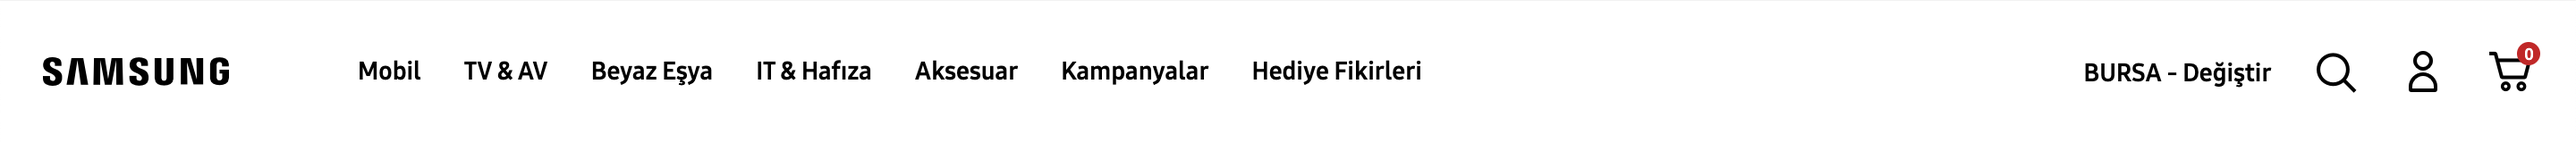
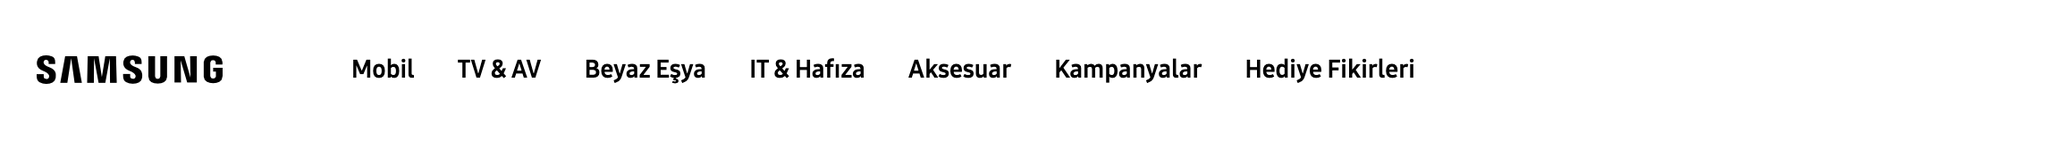
[feat] product basket add completed

Changed region(s): [[0.0, 0.3797, 0.6851, 0.6076], [0.8097, 0.3038, 0.9965, 0.6582]]

diff --git a/src/layout/header.jsx b/src/layout/header.jsx
@@ -1,16 +1,62 @@
-import React, { PureComponent } from 'react'
-import '../assets/scss/layout/header.scss'
-import headerImage from '../assets/images/header.png'
+import React, { PureComponent } from "react";
+import { connect } from "react-redux";
 
-class header extends PureComponent {
+import "../assets/scss/layout/header.scss";
+import headerImage from "../assets/images/header.png";
+import basketImg from "../assets/images/shopping-cart.svg";
 
-  render() {
-    return (
-      <div className="header">
-        <img src={headerImage} alt=""/>
+const DetailHeader = (product) => {
+  if(product.basketList.length != 0)
+    localStorage.setItem("basket", JSON.stringify(product.basketList));
+
+  const basket = JSON.parse(localStorage.getItem("basket"));
+
+  return (
+    <div className="header d-flex">
+      <div className="header-img">
+        <img src={headerImage} alt="" />
       </div>
-    )
-  }
-}
+      <div className="header-basket">
+        <div className="header-basket__item">
+          <p className="header-basket__text">Sepetim</p>
+          <img className="ml-2" src={basketImg} alt="" />
+          {basket == null && (<span className="header-basket__count ml-1">0</span>)}
+          {basket != null && (<span className="header-basket__count ml-1">{basket.length}</span>)}
+        </div>
 
-export default header;
+        {basket != null && 
+            <div className="header-basket__products">
+              <p className="ml-3 mb-2 mt-1">Sepetim ({basket.length})</p>
+              {basket != null && basket.map((basket) => ( 
+                <div className="d-flex header-basket__products-wrp" key={basket.id}>
+                  <div className="d-flex align-items-start">
+                    <img src={basket.color.image} alt=""/>
+                  </div>
+                  <div className="d-block">
+                    <h4 className="header-basket__products-name mt-1 mb-2">{basket.productName}</h4>
+                    <p className="header-basket__products-item" >Renk: {basket.color.name}</p>
+                    <p className="header-basket__products-item">Hafıza: {basket.memory.gb} GB</p>
+                    <p className="header-basket__products-item">SIM: Tek Sim</p>
+                    <p className="header-basket__products-price mt-1">{basket.memory.price} TL</p>
+                  </div>
+                </div>
+              ))}
+              <div className="d-flex justify-content-around">
+                <a className="button pr-4 pl-4 p-1 small white">Sepeti Gör</a>
+                <a className="button pr-4 pl-4 p-1 small green">Siparişi Tamamla</a>
+              </div>
+            </div>
+          }
+      </div>
+    </div>
+  );
+};
+
+const mapStateToProps = (state) => {
+  return {
+    basketList: state.basket.basketList,
+  };
+};
+
+export default connect(mapStateToProps)(DetailHeader);
+//rscp

diff --git a/src/assets/scss/layout/header.scss b/src/assets/scss/layout/header.scss
@@ -1,0 +1,88 @@
+.header{
+  height: 75px;
+  &-basket{
+    position: relative;
+    height: 100%;
+    width: 740px;
+    display: flex;
+    align-items: center;
+    justify-content: flex-end;
+    background-color: white;
+    &:hover{
+      .header-basket__products{
+        opacity: 1;
+      }
+    }
+ 
+    &__item{
+      display: flex;
+      align-items: center;
+      margin-right: 9%;
+      img{
+        width: 32px;
+      }
+    }
+    &__text{
+      font-size: 16px;
+      letter-spacing: -0.7px;
+    }
+    &__count{
+      font-size: 13px;
+      background-color: #e83869;
+      width: 20px;
+      height: 20px;
+      border-radius: 50px;
+      position: relative;
+      right: 17px;
+      top: -12px;
+      color: white;
+      display: flex;
+      align-items: center;
+      text-align: center;
+      justify-content: center;
+    }
+    &__products{
+      position: absolute;
+      z-index: 9999;
+      top: 73px;
+      width: 300px;
+      background-color: white;
+      border: 1px solid #d6d9e0;
+      margin-right: 8%;
+      border-radius: 10px;
+      padding: 7px 3px 12px;
+      box-shadow: #0000001c 0px 20px 65px 2px;
+      transition: all .3s;
+      pointer-events: none;
+      opacity: 0;
+      img{
+        max-width: 60px;
+      }
+      &-wrp{
+        margin-bottom: 10px;
+        border-bottom: 1px solid #f7f6f6;
+        margin: 10px;
+        padding:3px 0 12px;
+      }
+      &-name{
+        font-size: 14px;
+        font-weight: 600;
+        letter-spacing: -0.7px;
+      }
+      &-item{
+        font-size: 11px;
+        color: #6f6f6f;
+      }
+      &-price{
+        font-size: 16px;
+        font-weight: 600;
+        color: #d83075;
+        letter-spacing: -0.7px;
+      }
+      &:hover{
+        pointer-events: all;
+        opacity: 0;
+      }
+    }
+  }
+}

diff --git a/src/components/product-detail/detailHeader.jsx b/src/components/product-detail/detailHeader.jsx
@@ -1,12 +1,13 @@
-import React from 'react'
+import React, {useState} from 'react'
 import { connect } from "react-redux";
 
-const DetailHeader = product => {
-  function addBasket(){
-    console.log(product.selectedColor)
-    console.log(product.selectedMemory)
-  }
+//Actions
+import {basket} from '../../actions/basket'
 
+const DetailHeader = (product, addBasket) => {
+  function addBasket(){
+     product.basket(product.selectedColor, product.selectedMemory, product.name)
+  }
   return (
     <div className="product-detail__header sticky-top">
     <h3>{product.name}</h3>
@@ -23,10 +24,13 @@ const DetailHeader = product => {
 
 const mapStateToProps = (state) => {
   return{
-    loading: state.products.isLoading
+    loading: state.products.isLoading,
   }
 };
 
+const mapDispatchToProps = {
+  basket
+};
 
-export default connect(mapStateToProps)(DetailHeader);
+export default connect(mapStateToProps,mapDispatchToProps)(DetailHeader);
 //rscp

diff --git a/src/components/product-detail/detailMemory.jsx b/src/components/product-detail/detailMemory.jsx
@@ -28,7 +28,7 @@ const DetailMemory = (product) => {
             <div className={`product-detail__color-item mb-3 p-2 pb-3 ${product.selectedMemory.id == productMemory.id ? "active" : ""}`} 
             key={productMemory.id} onClick={() => {
               dispatch({ type: 'LOADING' , payload: true })
-              setTimeout(() => {changeMemory(productMemory.id)}, 700);
+              setTimeout(() => {changeMemory(productMemory.id)}, 0);
               setTimeout(() => {dispatch({ type: 'LOADING' , payload: false })}, 700);
             }}>
               <p className="product-detail__color-other">{productMemory.gb} GB</p>

diff --git a/src/index.js b/src/index.js
@@ -23,10 +23,15 @@ const store = createStore(
 // - Ayrıca oluşturmuş olduğumuz store un her yere ulaşabilmesi için Provider yapısına store ekliyoruz.
 
 // + Router yapısı: Tüm projenin router'ı görebilmesi için bu kısımda provider üzerinde sarmaladık.
+let basket;
+if(JSON.parse(localStorage.getItem("basket") != null)) {
+   basket = JSON.parse(localStorage.getItem("basket"));
+}
+
 ReactDOM.render(
     <BrowserRouter> 
       <Provider store={store}> 
-        <Header />
+        <Header basket={basket} />
         <App />
       </Provider>
     </BrowserRouter>,

diff --git a/src/components/product-detail/detailSim.jsx b/src/components/product-detail/detailSim.jsx
@@ -19,7 +19,7 @@ const DetailSim = product => {
             <div className={`product-detail__color-item mb-3 p-2 pb-3 
             ${product.productInfo.sim[selectedSim].id == productSim.id ? "active" : ""}`} key={productSim.id} onClick={() => {
               setSpinnerSim(true)
-              setTimeout(() => {setSelectedSim(productSim.id)}, 700);
+              setTimeout(() => {setSelectedSim(productSim.id)}, 0);
               setTimeout(() => {setSpinnerSim(false)}, 700);
             }}>
               <p className="product-detail__color-other">{productSim.name} SIM</p>

diff --git a/src/reducers/basket.js b/src/reducers/basket.js
@@ -1,0 +1,24 @@
+const initialState = {
+  basketList:[],
+}
+
+export default (state = initialState, action) => {
+  switch (action.type) {
+    case "FETCH_BASKET":
+      if(JSON.parse(localStorage.getItem("basket") == null)){
+        return{
+          ...state,
+          basketList: [...state.basketList, action.payload] //concat
+        }
+      }
+      else{
+        return{
+          ...state,
+          basketList: [...JSON.parse(localStorage.getItem("basket")), action.payload] //concat
+        }
+      }
+     
+    default:
+      return state;
+  }
+}

diff --git a/src/assets/global.scss b/src/assets/global.scss
@@ -158,6 +158,19 @@ label {
     color:white;
     background-color: #183587;
   }
+  &.small{
+    font-size: 14px;
+    font-weight: 500;
+  }
+  &.green{
+    background-color: #7fca1c;
+    border: 1px solid #85c72c;
+  }
+  &.white{
+    background-color: #f7f7f7;
+    border: 1px solid #ece8e8;
+    color: black;
+  }
 }
 
 [data-theme='compact'] .site-collapse-custom-collapse .site-collapse-custom-panel,

diff --git a/src/actions/basket.js b/src/actions/basket.js
@@ -1,0 +1,12 @@
+export function basket(selectedColor, selectedMemory, productName) {
+  return async dispatch => {
+    dispatch({
+      type: "FETCH_BASKET",
+      payload: {
+        productName: productName,
+        color: selectedColor,
+        memory : selectedMemory
+      }
+    });
+  };
+}

diff --git a/src/reducers/rootReducer.js b/src/reducers/rootReducer.js
@@ -1,8 +1,10 @@
 import {combineReducers} from 'redux'
 import products from './products'
 import productStorage from './productStorage'
+import basket from './basket'
 
 export default combineReducers({
   products,
-  productStorage
+  productStorage,
+  basket
 })

diff --git a/src/assets/scss/products-page.scss b/src/assets/scss/products-page.scss
@@ -9,7 +9,7 @@
 	}
 
 	&__list {
-		width: 97%;
+		width: 97.4%;
 		height: 100vh;
 	}
 
